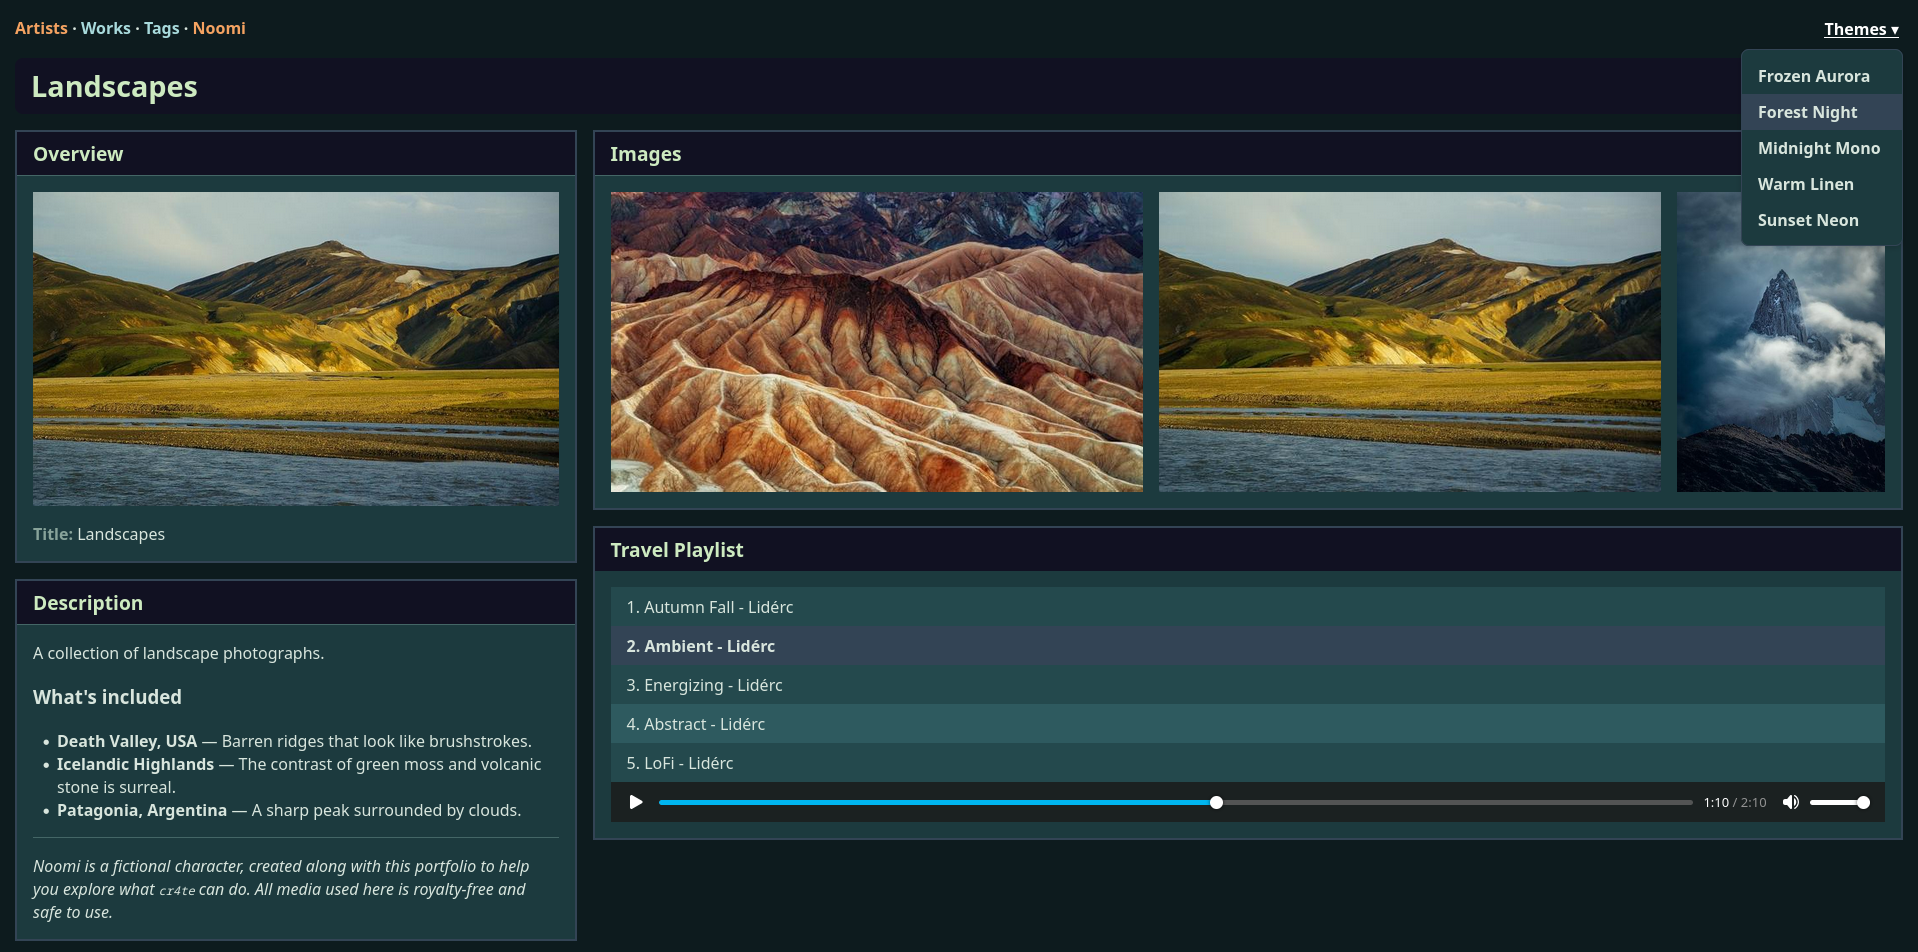
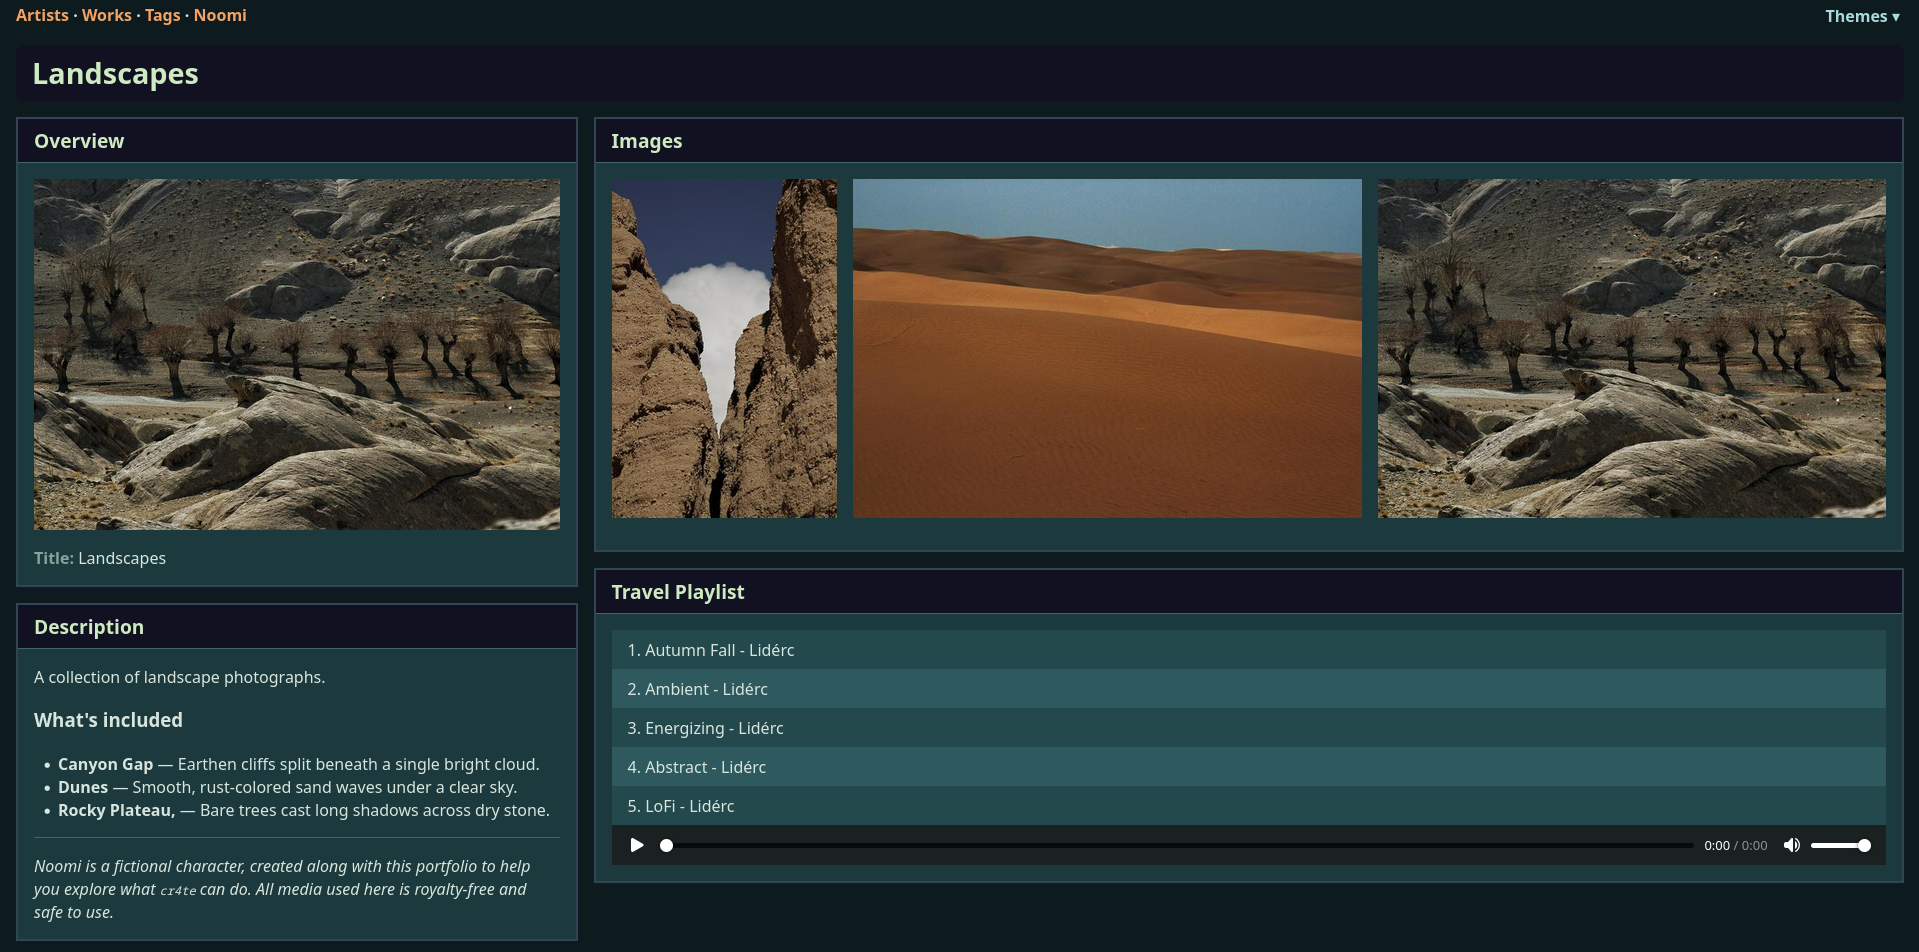
Update example

diff --git a/data/example/Artists/Noomi/Landscapes/README.md b/data/example/Artists/Noomi/Landscapes/README.md
@@ -2,9 +2,9 @@ A collection of landscape photographs.
 
 ### What's included
 
-- **Death Valley, USA** — Barren ridges that look like brushstrokes.
-- **Icelandic Highlands** — The contrast of green moss and volcanic stone is surreal.
-- **Patagonia, Argentina** — A sharp peak surrounded by clouds.
+- **Canyon Gap** — Earthen cliffs split beneath a single bright cloud.
+- **Dunes** — Smooth, rust-colored sand waves under a clear sky.
+- **Rocky Plateau,** — Bare trees cast long shadows across dry stone.
 
 ---
 

diff --git a/data/example/Artists/Noomi/README.md b/data/example/Artists/Noomi/README.md
@@ -1,6 +1,6 @@
 Noomi is a photographer with a passion for the world around her.
 
-She has traveled across continents, working on various photo projects that explore light, place, and emotion.
+She is working on various photo projects that explore light, place, and emotion.
 
 One of her best-known series is called **Landscapes**, where she focus on capturing the emotional tone of remote natural scenes.
 
